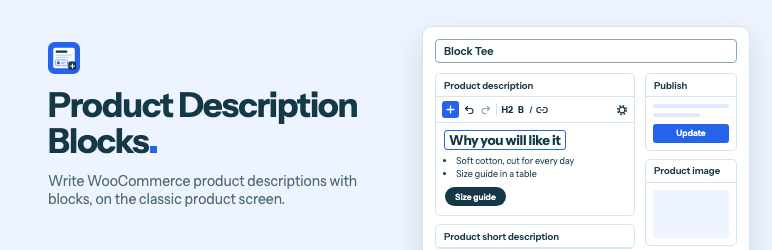
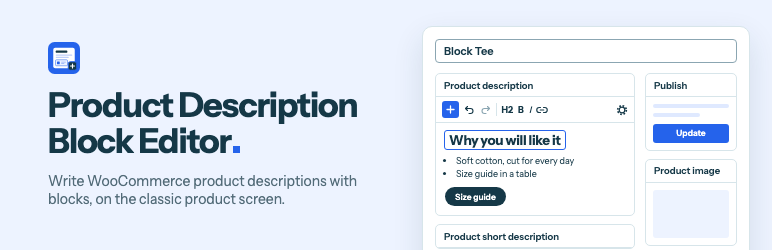
Rename the plugin to Product Description Block Editor for WooCommerce
The earlier name, slug and text domain matched another developer's plugin on
GitHub. "Block editor" is also the more accurate term: the plugin adds an
editor, not new blocks.

Renames the main file, the text domain and the build paths, and re-renders
the directory banners. Class names, hooks and CSS classes keep the pdblocks
prefix.

Changed region(s): [[0.1554, 0.504, 0.3109, 0.616]]

diff --git a/assets/js/editor.js b/assets/js/editor.js
@@ -151,7 +151,7 @@
 								role: 'toolbar',
 								'aria-label': __(
 									'Editor tools',
-									'product-description-blocks-for-woocommerce'
+									'product-description-block-editor-for-woocommerce'
 								),
 							},
 							el( Inserter, {
@@ -164,7 +164,7 @@
 										icon: 'plus-alt2',
 										label: __(
 											'Add block',
-											'product-description-blocks-for-woocommerce'
+											'product-description-block-editor-for-woocommerce'
 										),
 										'aria-expanded': isOpen,
 										onClick: onToggle,
@@ -174,7 +174,7 @@
 							el( Button, {
 								size: 'compact',
 								icon: 'undo',
-								label: __( 'Undo', 'product-description-blocks-for-woocommerce' ),
+								label: __( 'Undo', 'product-description-block-editor-for-woocommerce' ),
 								onClick: history.undo,
 								disabled: ! history.hasUndo,
 								accessibleWhenDisabled: true,
@@ -182,7 +182,7 @@
 							el( Button, {
 								size: 'compact',
 								icon: 'redo',
-								label: __( 'Redo', 'product-description-blocks-for-woocommerce' ),
+								label: __( 'Redo', 'product-description-block-editor-for-woocommerce' ),
 								onClick: history.redo,
 								disabled: ! history.hasRedo,
 								accessibleWhenDisabled: true,
@@ -198,7 +198,7 @@
 								icon: 'admin-generic',
 								label: __(
 									'Block settings',
-									'product-description-blocks-for-woocommerce'
+									'product-description-block-editor-for-woocommerce'
 								),
 								isPressed: showSettings,
 								onClick: () => setShowSettings( ! showSettings ),
@@ -239,7 +239,7 @@
 										role: 'region',
 										'aria-label': __(
 											'Block settings',
-											'product-description-blocks-for-woocommerce'
+											'product-description-block-editor-for-woocommerce'
 										),
 									},
 									el( BlockInspector )

diff --git a/design/banner.html b/design/banner.html
@@ -2,7 +2,7 @@
 <html lang="en">
 <head>
 <meta charset="utf-8">
-<title>Product Description Blocks for WooCommerce: directory banner</title>
+<title>Product Description Block Editor for WooCommerce: directory banner</title>
 <!--
 	Source for .wordpress-org/banner-1544x500.png and banner-772x250.png.
 	Render at 1544x500, or add ?scale=0.5 and render at 772x250.
@@ -223,7 +223,7 @@
 <body>
 	<div class="copy">
 		<img src="../.wordpress-org/icon.svg" alt="">
-		<h1>Product Description Blocks<span class="stop"></span></h1>
+		<h1>Product Description Block Editor<span class="stop"></span></h1>
 		<p>Write WooCommerce product descriptions with blocks, on the classic product screen.</p>
 	</div>
 

diff --git a/includes/class-pdblocks-plugin.php b/includes/class-pdblocks-plugin.php
@@ -6,7 +6,7 @@
  * place. Each editor keeps its form field (`content`, `excerpt`) in sync as block markup, so both
  * are saved by the same form submission as the rest of the product.
  *
- * @package Product_Description_Blocks
+ * @package Product_Description_Block_Editor
  */
 
 defined( 'ABSPATH' ) || exit;
@@ -217,7 +217,7 @@ final class PDBlocks_Plugin {
 		self::$editor_support_removed = true;
 		?>
 		<div id="postdivrich" class="postarea">
-			<?php self::render_field( 'content', get_post_field( 'post_content', $post->ID, 'raw' ), __( 'Product description', 'product-description-blocks-for-woocommerce' ) ); ?>
+			<?php self::render_field( 'content', get_post_field( 'post_content', $post->ID, 'raw' ), __( 'Product description', 'product-description-block-editor-for-woocommerce' ) ); ?>
 		</div>
 		<?php
 	}
@@ -260,7 +260,7 @@ final class PDBlocks_Plugin {
 	 * @param WP_Post $post The product being edited.
 	 */
 	public static function render_short_description_editor( $post ) {
-		self::render_field( 'excerpt', get_post_field( 'post_excerpt', $post->ID, 'raw' ), __( 'Product short description', 'product-description-blocks-for-woocommerce' ) );
+		self::render_field( 'excerpt', get_post_field( 'post_excerpt', $post->ID, 'raw' ), __( 'Product short description', 'product-description-block-editor-for-woocommerce' ) );
 	}
 
 	/**
@@ -454,7 +454,7 @@ final class PDBlocks_Plugin {
 			PDBLOCKS_VERSION,
 			true
 		);
-		wp_set_script_translations( 'pdblocks-editor', 'product-description-blocks-for-woocommerce' );
+		wp_set_script_translations( 'pdblocks-editor', 'product-description-block-editor-for-woocommerce' );
 
 		$settings = get_block_editor_settings( array(), new WP_Block_Editor_Context( array( 'post' => $post ) ) );
 
@@ -467,11 +467,11 @@ final class PDBlocks_Plugin {
 				'fields'    => array(
 					'content' => array(
 						'allowedBlockTypes' => self::get_allowed_block_types( 'description' ),
-						'placeholder'       => __( 'Describe this product, or type / to choose a block', 'product-description-blocks-for-woocommerce' ),
+						'placeholder'       => __( 'Describe this product, or type / to choose a block', 'product-description-block-editor-for-woocommerce' ),
 					),
 					'excerpt' => array(
 						'allowedBlockTypes' => self::get_allowed_block_types( 'short_description' ),
-						'placeholder'       => __( 'Sum this product up, or type / to choose a block', 'product-description-blocks-for-woocommerce' ),
+						'placeholder'       => __( 'Sum this product up, or type / to choose a block', 'product-description-block-editor-for-woocommerce' ),
 					),
 				),
 			)

diff --git a/product-description-block-editor-for-woocommerce.php b/product-description-block-editor-for-woocommerce.php
@@ -1,7 +1,7 @@
 <?php
 /**
- * Plugin Name: Product Description Blocks for WooCommerce
- * Plugin URI: https://github.com/danielk-am/product-description-blocks-for-woocommerce
+ * Plugin Name: Product Description Block Editor for WooCommerce
+ * Plugin URI: https://github.com/danielk-am/product-description-block-editor-for-woocommerce
  * Description: Write product descriptions and short descriptions with blocks on the classic product screen. Only those two boxes change: everything else saves the way it always has.
  * Version: 1.0.0
  * Requires at least: 7.0
@@ -11,11 +11,11 @@
  * Author URI: https://danielk.am
  * License: GPL-2.0-or-later
  * License URI: https://www.gnu.org/licenses/gpl-2.0.html
- * Text Domain: product-description-blocks-for-woocommerce
+ * Text Domain: product-description-block-editor-for-woocommerce
  * WC requires at least: 11.1
  * WC tested up to: 11.1
  *
- * @package Product_Description_Blocks
+ * @package Product_Description_Block_Editor
  */
 
 defined( 'ABSPATH' ) || exit;

diff --git a/tests/run.php b/tests/run.php
@@ -3,7 +3,7 @@
  * Plugin checks, run inside a WordPress admin request on a disposable site.
  * Plain assertions, so they run without the WordPress test suite. Not shipped in the release ZIP.
  *
- * @package Product_Description_Blocks
+ * @package Product_Description_Block_Editor
  */
 
 defined( 'ABSPATH' ) || exit;

diff --git a/tests/seed.php b/tests/seed.php
@@ -3,7 +3,7 @@
  * Synthetic catalogue for manual and browser checks on a disposable site.
  * Not shipped in the release ZIP.
  *
- * @package Product_Description_Blocks
+ * @package Product_Description_Block_Editor
  */
 
 defined( 'ABSPATH' ) || exit;

diff --git a/README.md b/README.md
@@ -1,6 +1,6 @@
-![Product Description Blocks for WooCommerce: write WooCommerce product descriptions with blocks, on the classic product screen.](.wordpress-org/banner-1544x500.png)
+![Product Description Block Editor for WooCommerce: write WooCommerce product descriptions with blocks, on the classic product screen.](.wordpress-org/banner-1544x500.png)
 
-# Product Description Blocks for WooCommerce
+# Product Description Block Editor for WooCommerce
 
 Write WooCommerce product descriptions and short descriptions with blocks, on the classic product screen.
 
@@ -39,20 +39,20 @@ WordPress 7.0 or later, WooCommerce 11.1 or later, PHP 7.4 or later. Tested on W
 
 ## Install
 
-Build the plugin as shown below, zip `build/product-description-blocks-for-woocommerce`, and upload it under Plugins > Add New > Upload Plugin. Or copy that folder into `wp-content/plugins`.
+Build the plugin as shown below, zip `build/product-description-block-editor-for-woocommerce`, and upload it under Plugins > Add New > Upload Plugin. Or copy that folder into `wp-content/plugins`.
 
 ## Develop and test
 
 Build the files that ship, without tests, design sources or repo files:
 
 ```bash
-rsync -a --delete --exclude-from=.distignore ./ build/product-description-blocks-for-woocommerce/
+rsync -a --delete --exclude-from=.distignore ./ build/product-description-block-editor-for-woocommerce/
 ```
 
 Start a disposable store with [WordPress Playground](https://wordpress.github.io/wordpress-playground/). It installs WooCommerce and Plugin Check, adds Google for WooCommerce for the feed checks, mounts the build and logs you in:
 
 ```bash
-npx @wp-playground/cli@3.1.56 server --port=9402 --workers=1 --login --blueprint=./tests/blueprint.json --mount=./build/product-description-blocks-for-woocommerce:/wordpress/wp-content/plugins/product-description-blocks-for-woocommerce --mount=./tests:/wordpress/wp-content/pdblocks-tests
+npx @wp-playground/cli@3.1.56 server --port=9402 --workers=1 --login --blueprint=./tests/blueprint.json --mount=./build/product-description-block-editor-for-woocommerce:/wordpress/wp-content/plugins/product-description-block-editor-for-woocommerce --mount=./tests:/wordpress/wp-content/pdblocks-tests
 ```
 
 Then, in the browser:
